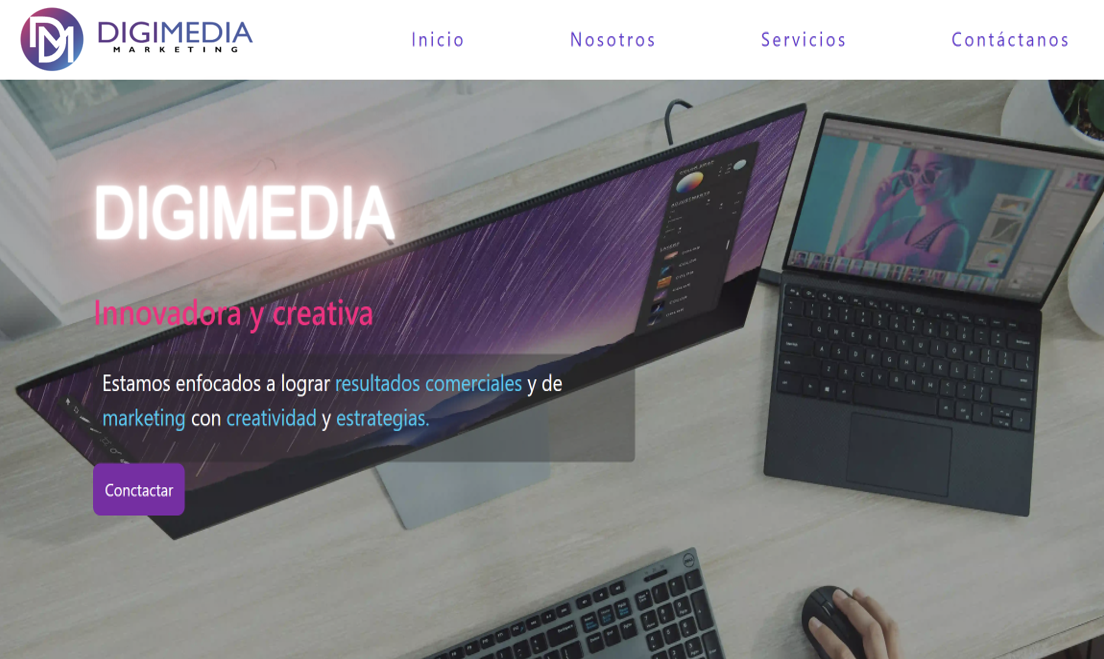
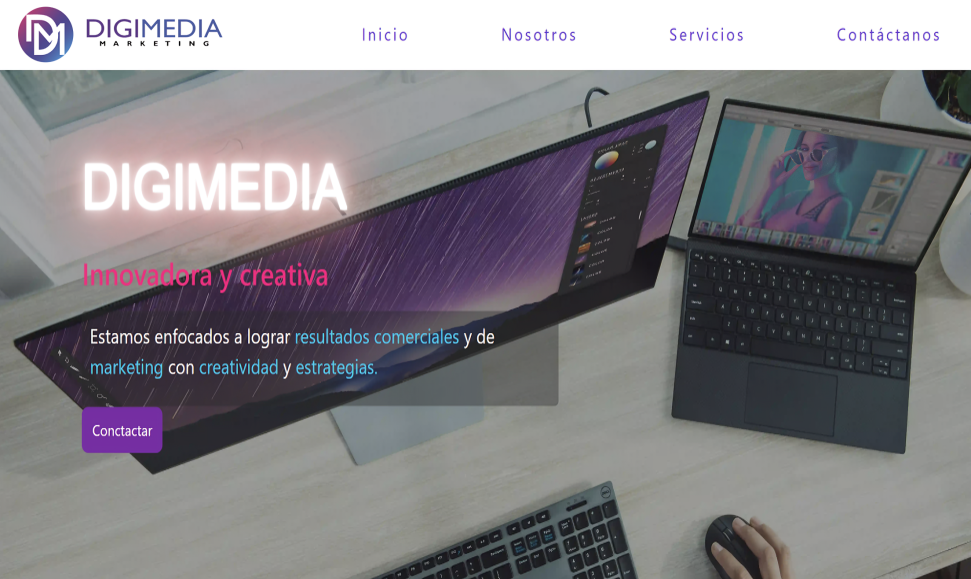
img digimedia

diff --git a/ES-portfolio-details-Digimedia.html b/ES-portfolio-details-Digimedia.html
@@ -76,19 +76,19 @@
                 </div>
 
                 <div class="swiper-slide">
-                  <img src="assets/img/portfolio/Dodge _the_Ball_2.jpg" alt="">
+                  <img src="assets/img/portfolio/Digimedia 2.jpg" alt="">
                 </div>
 
                 <div class="swiper-slide">
-                  <img src="assets/img/portfolio/Dodge _the_Ball_3.jpg" alt="">
+                  <img src="assets/img/portfolio/Digimedia 3.jpg" alt="">
                 </div>
 
                 <div class="swiper-slide">
-                  <img src="assets/img/portfolio/Dodge _the_Ball_4.jpg" alt="">
+                  <img src="assets/img/portfolio/Digimedia 4.jpg" alt="">
                 </div>
 
                 <div class="swiper-slide">
-                  <img src="assets/img/portfolio/Dodge _the_Ball_5.jpg" alt="">
+                  <img src="assets/img/portfolio/Digimedia 5.jpg" alt="">
                 </div>
 
               </div>
@@ -124,7 +124,7 @@
               </ul>
             </div>
             <div class="portfolio-description">
-              <h2>Juego de esquivar la pelota</h2>
+              <h2>Desarrollo de un sitio web de servicios para Digimedia</h2>
               <p>
                 Desarrollado con HTML, CSS y JavaScript, este juego enfrenta a dos gorilas que compiten por el control de la ciudad lanzando pelotas y esquivando ataques. Los jugadores deben calcular la trayectoria de las pelotas para impactar al oponente y evitar ser alcanzados. Ofrece modos de juego para dos jugadores o de computadora, y permite alternar entre día y noche. La jugabilidad está basada en JavaScript, con un diseño visual vibrante creado con CSS, que ofrece una experiencia dinámica y entretenida en el navegador.
               </p>

diff --git a/index.html b/index.html
@@ -1055,10 +1055,10 @@
             <div class="portfolio-wrap">
               <img src="assets/img/portfolio/Digimedia.png" class="img-fluid" alt="">
               <div class="portfolio-info">
-                <h4>digi</h4>
+                <h4>Sitio web de servicios para Digimedia</h4>
                 <p>Web</p>
                 <div class="portfolio-links">
-                  <a href="assets/img/portfolio/Dodge _the_Ball_1.jpg" data-gallery="portfolioGallery" class="portfolio-lightbox" title="Web 3"><i class="bx bx-plus"></i></a>
+                  <a href="assets/img/portfolio/Digimedia.png" data-gallery="portfolioGallery" class="portfolio-lightbox" title="Web 3"><i class="bx bx-plus"></i></a>
                   <a href="ES-portfolio-details-Digimedia.html" class="portfolio-details-lightbox" data-glightbox="type: external" title="Portfolio Details"><i class="bx bx-link"></i></a>
                 </div>
               </div>
